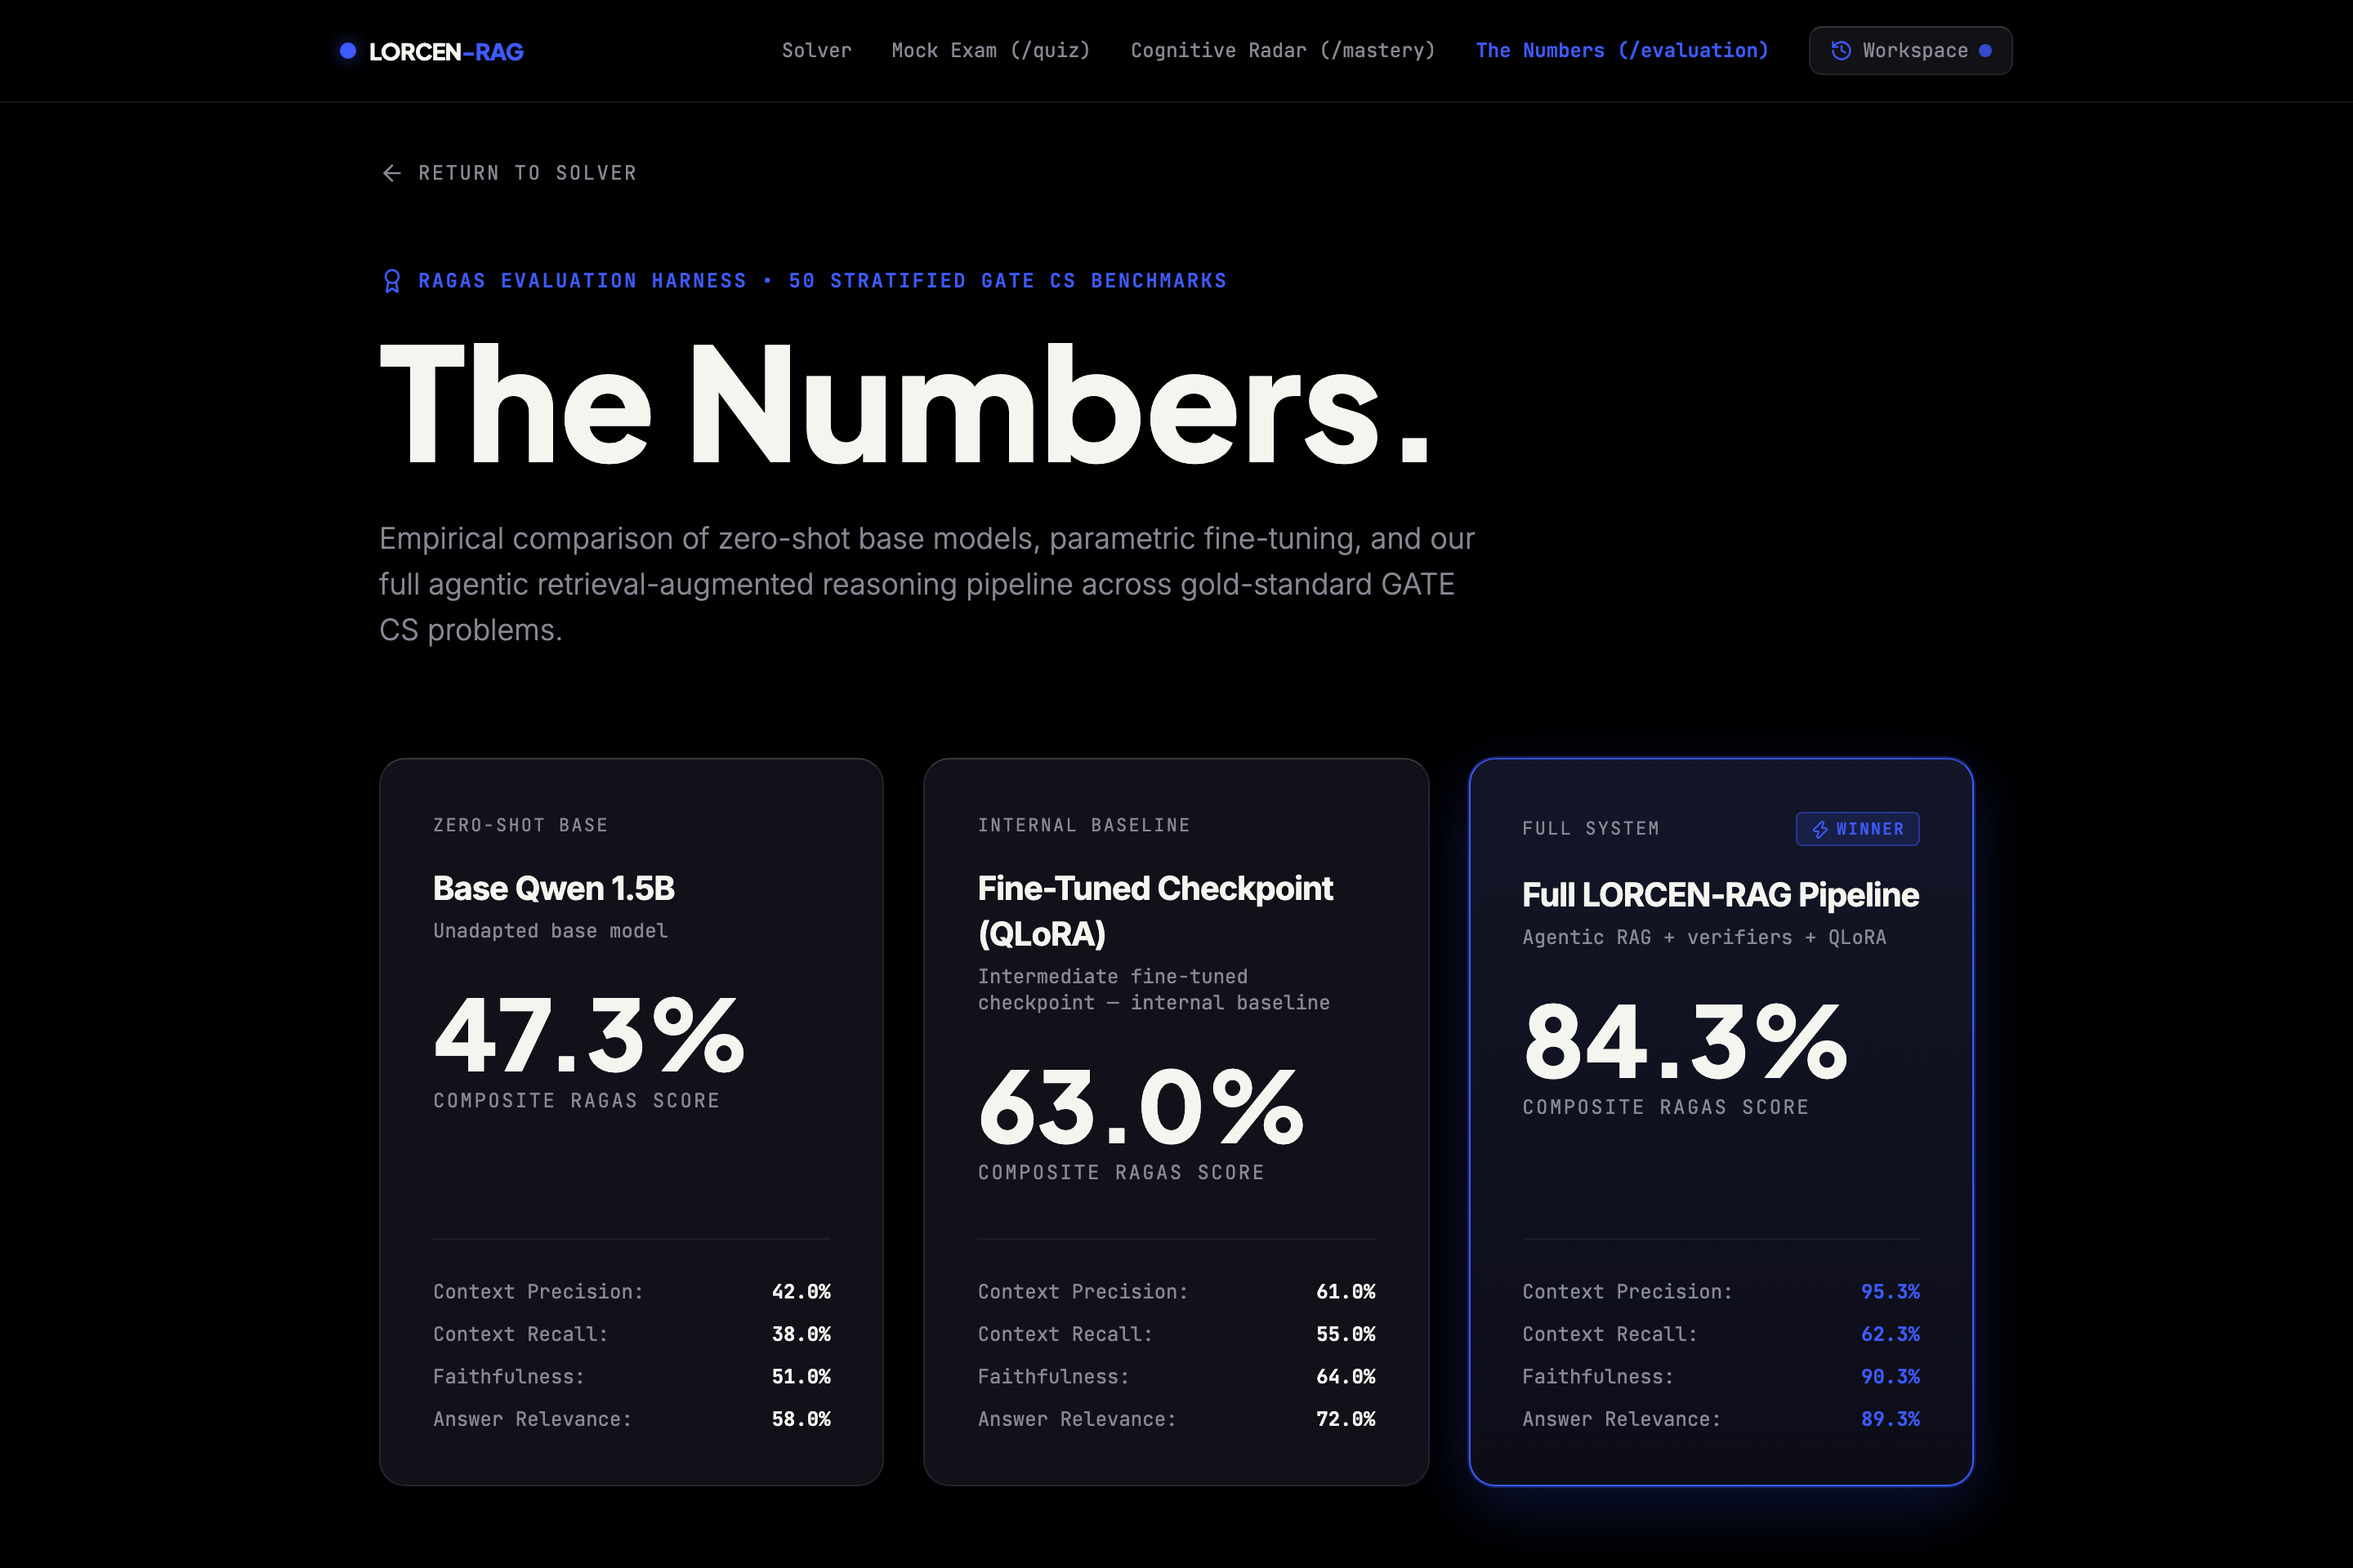
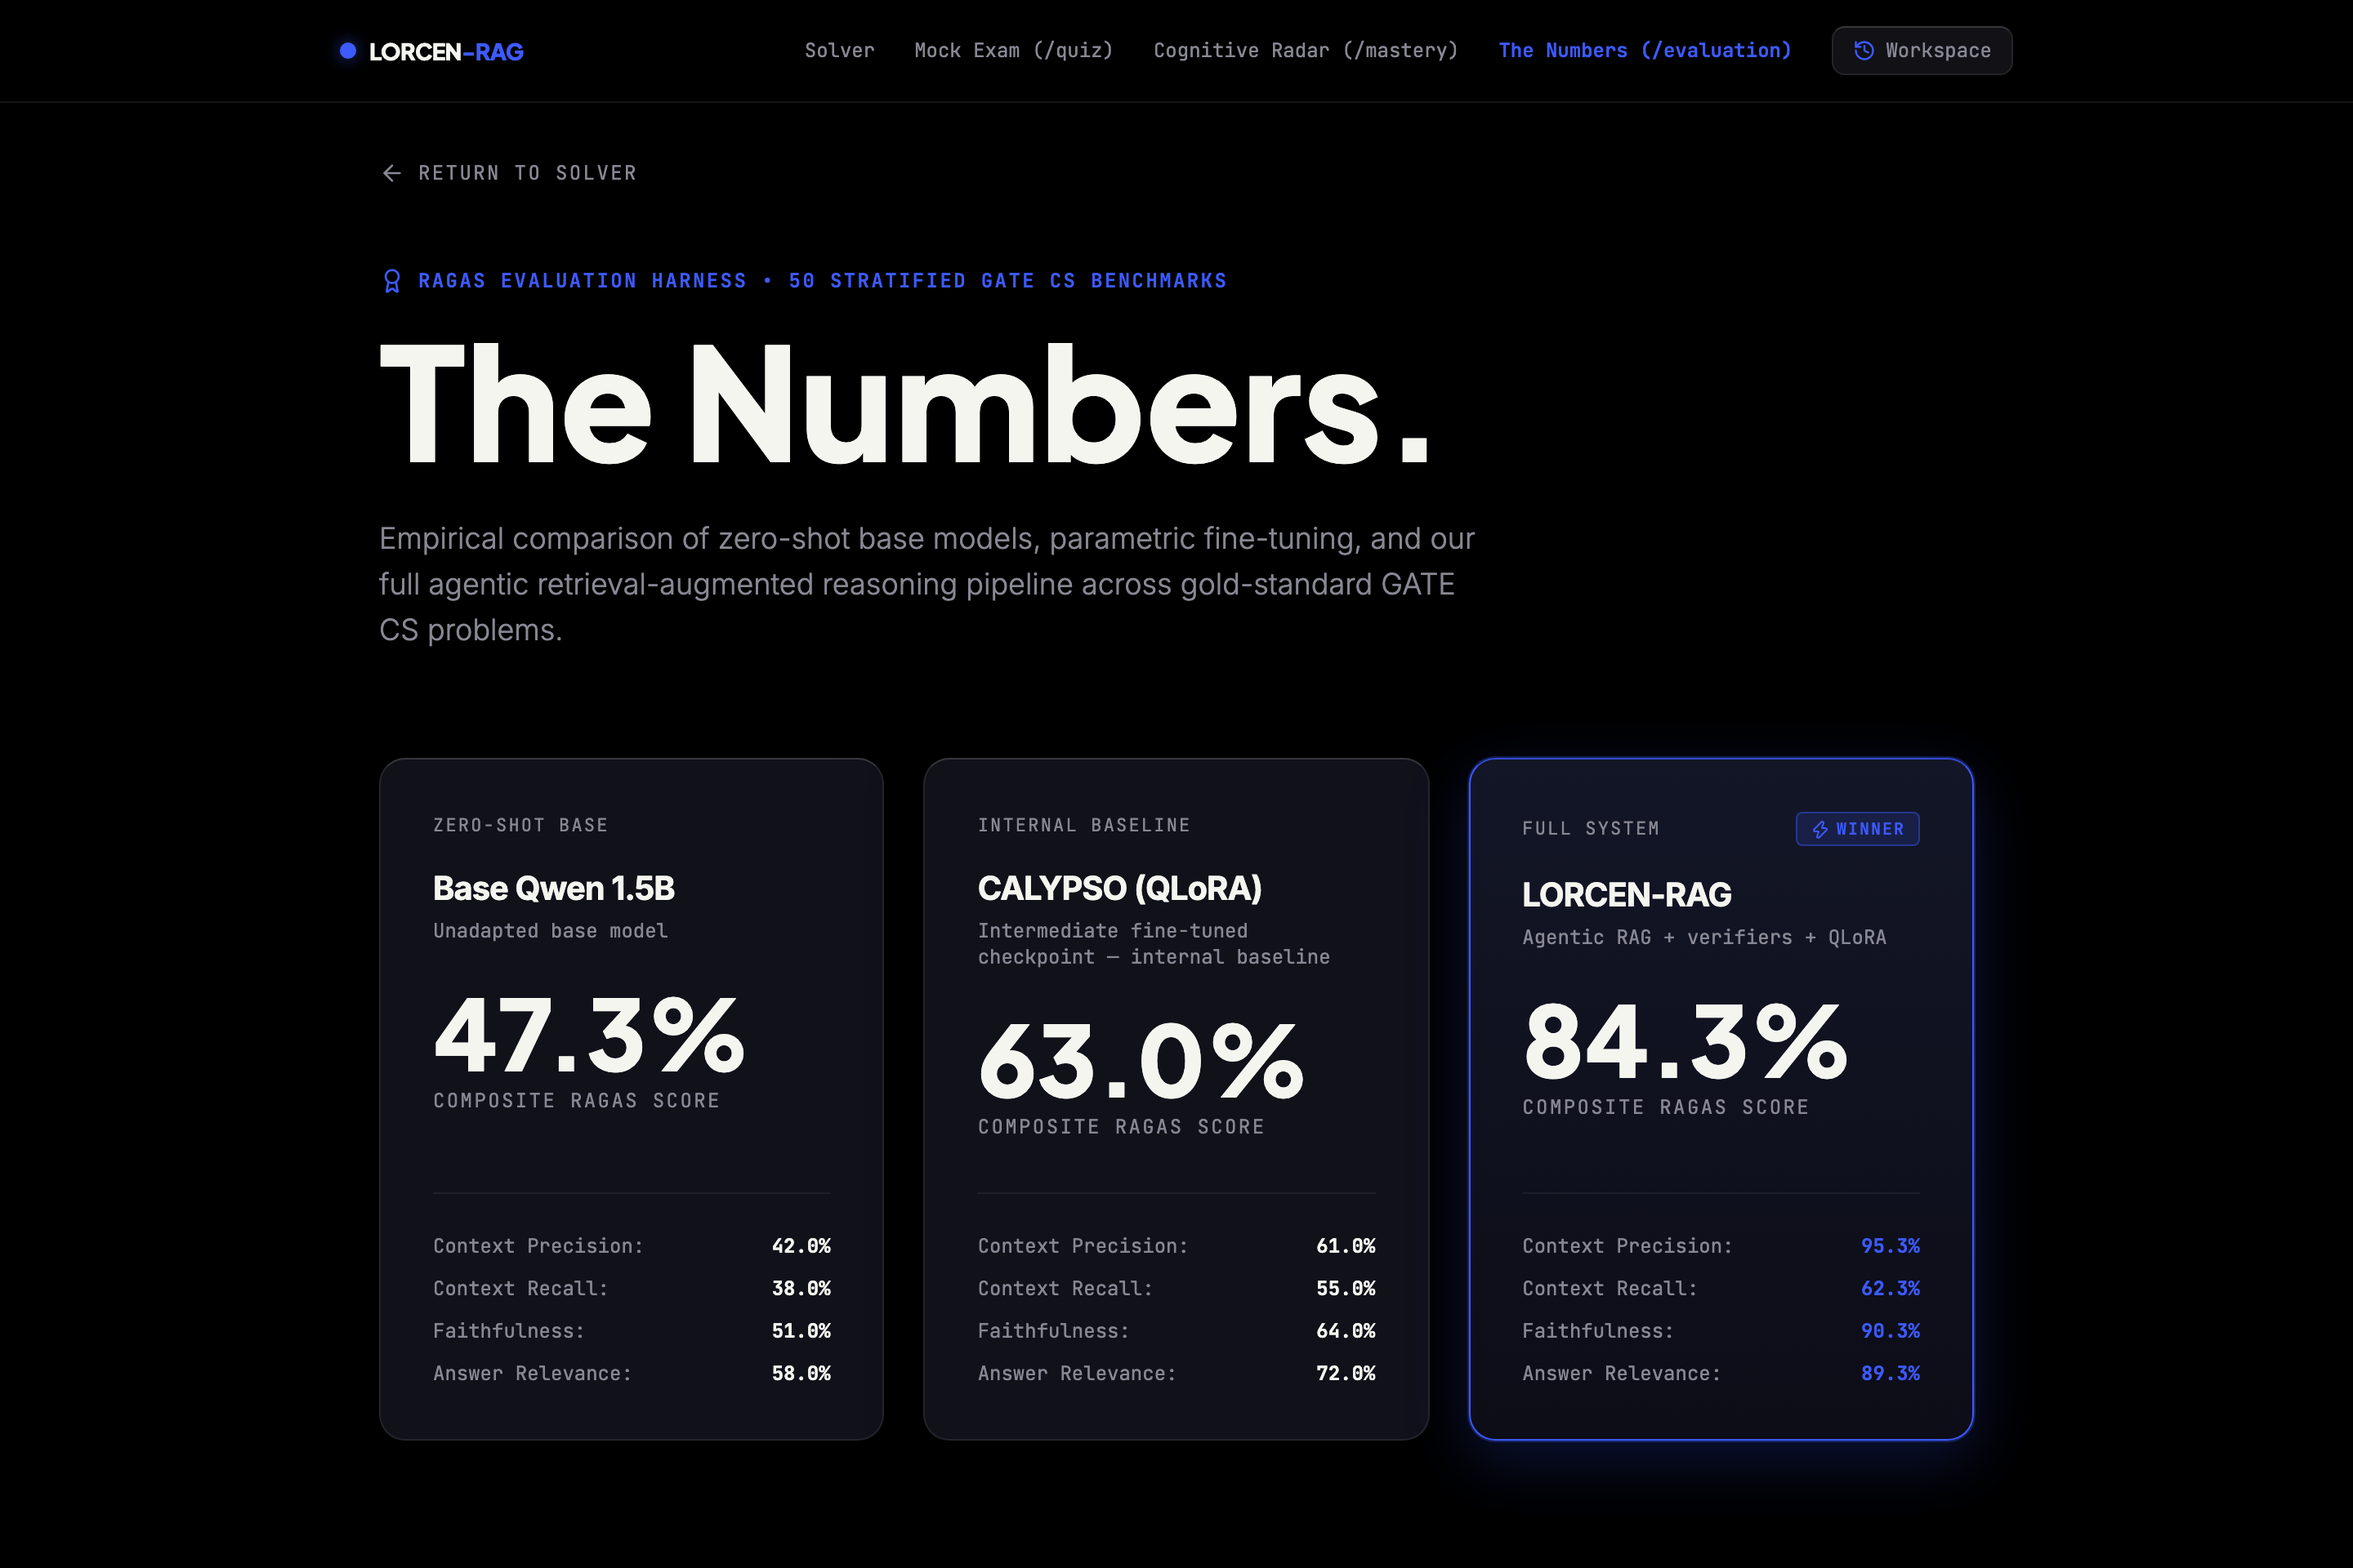
fix(eval): preserve CALYPSO (QLoRA) internal baseline name and align target header to LORCEN-RAG

diff --git a/frontend/src/components/EvaluationView.tsx b/frontend/src/components/EvaluationView.tsx
@@ -65,7 +65,7 @@ export const EvaluationView: React.FC<EvaluationViewProps> = ({ onBack }) => {
             highlight: false
           },
           {
-            name: "Fine-Tuned Checkpoint (QLoRA)",
+            name: "CALYPSO (QLoRA)",
             subtitle: "Intermediate fine-tuned checkpoint — internal baseline",
             tag: "Internal Baseline",
             overall: "63.0%",
@@ -76,7 +76,7 @@ export const EvaluationView: React.FC<EvaluationViewProps> = ({ onBack }) => {
             highlight: false
           },
           {
-            name: "Full LORCEN-RAG Pipeline",
+            name: "LORCEN-RAG",
             subtitle: "Agentic RAG + verifiers + QLoRA",
             tag: "Full System",
             overall: "84.3%",
@@ -152,7 +152,7 @@ export const EvaluationView: React.FC<EvaluationViewProps> = ({ onBack }) => {
       {/* Target vs Actual Grid */}
       <div className="mb-20">
         <h2 className="text-xs font-mono uppercase tracking-widest text-muted-gray mb-8">
-          Target Thresholds vs Lorcen-RAG Actuals
+          Target Thresholds vs LORCEN-RAG Actuals
         </h2>
 
         <div className="grid grid-cols-2 md:grid-cols-4 gap-4">
